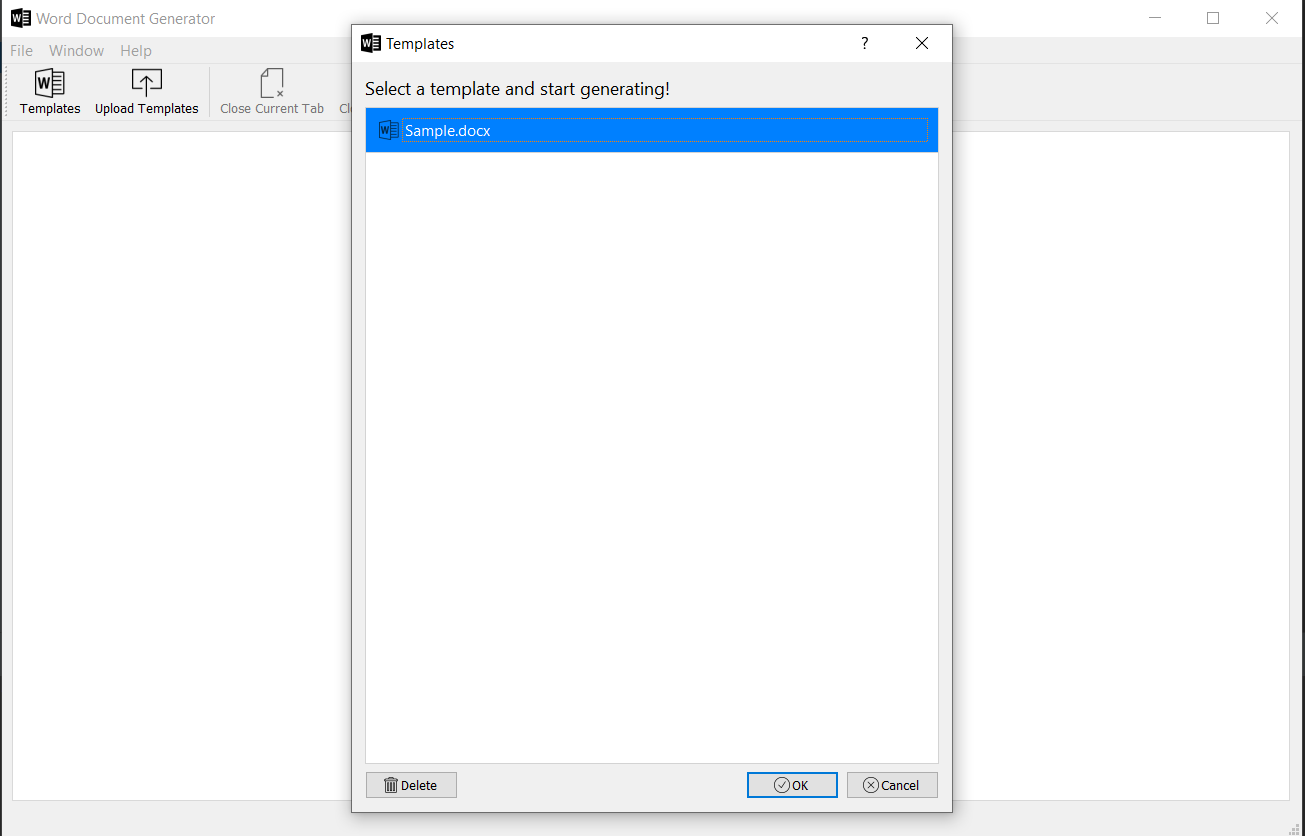
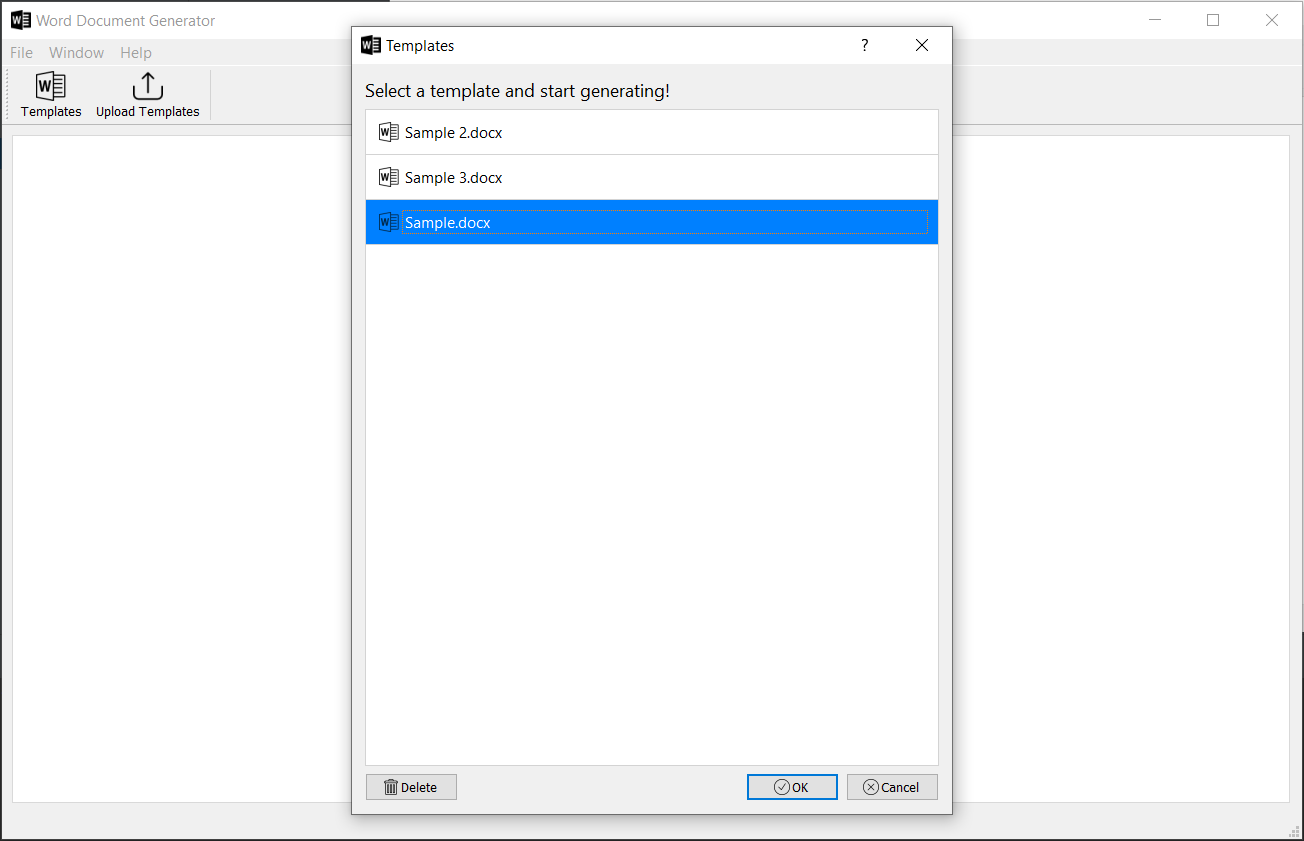
Release v1.0.1

diff --git a/dg/home.py b/dg/home.py
@@ -38,7 +38,8 @@ class HomeWindow(QMainWindow):
     action_templates: QAction
     action_upload: QAction
     action_quit: QAction
-    action_close_tab: QAction
+    action_generate: QAction
+    action_discard: QAction
     action_close_all: QAction
     action_about: QAction
 
@@ -70,7 +71,8 @@ class HomeWindow(QMainWindow):
         self.action_quit.triggered.connect(lambda: self.on_quit_triggered())
         self.action_templates.triggered.connect(lambda: self.on_templates_triggered())
         self.action_upload.triggered.connect(lambda: self.on_upload_triggered())
-        self.action_close_tab.triggered.connect(lambda: self.on_close_tab_triggered())
+        self.action_generate.triggered.connect(lambda: self.on_generate_triggered())
+        self.action_discard.triggered.connect(lambda: self.on_discard_triggered())
         self.action_close_all.triggered.connect(lambda: self.on_close_all_triggered())
         self.closeEvent = lambda event: self.on_quit_triggered()  # noqa
 
@@ -80,9 +82,6 @@ class HomeWindow(QMainWindow):
         self.tab_widget.currentChanged.connect(lambda index: self.on_tab_changed(index))
         self.toolbar.addActions([self.action_templates, self.action_upload])
         self.toolbar.addSeparator()
-        self.toolbar.addActions([self.action_close_tab, self.action_close_all])
-        self.toolbar.addSeparator()
-        self.toolbar.addAction(self.action_about)
 
     def show_initial_message(self):
         """Show statusbar message"""
@@ -91,8 +90,16 @@ class HomeWindow(QMainWindow):
     def on_tab_changed(self, index):
         """On tab changed"""
         has_tab = index >= 0
-        self.action_close_tab.setEnabled(has_tab)
         self.action_close_all.setEnabled(has_tab)
+        self.action_generate.setEnabled(has_tab)
+        self.action_discard.setEnabled(has_tab)
+
+        if has_tab:
+            self.toolbar.addAction(self.action_generate)
+            self.toolbar.addAction(self.action_discard)
+        else:
+            self.toolbar.removeAction(self.action_generate)
+            self.toolbar.removeAction(self.action_discard)
 
     def on_tab_closed(self, index):
         """On tab closed"""
@@ -167,15 +174,17 @@ class HomeWindow(QMainWindow):
         self.tab_widget.addTab(window, name)
         self.tab_widget.setCurrentWidget(window)
 
-        index = self.tab_widget.indexOf(window)
-        window.on_cancel.connect(lambda: self.on_tab_closed(index))
-
     def on_extract_variables_fail(self, error):
         """On extract variables task fail"""""
         QMessageBox.warning(self, 'Error', f'An error occurred when parsing template. <br/>Error: {error}')
 
-    def on_close_tab_triggered(self):
-        """On close current tab triggered"""
+    def on_generate_triggered(self):
+        """On generate action triggered"""
+        window: GeneratorWindow = self.tab_widget.currentWidget()
+        window.generate()
+
+    def on_discard_triggered(self):
+        """On discard action triggered"""
         self.tab_widget.removeTab(self.tab_widget.currentIndex())
 
     def on_close_all_triggered(self):

diff --git a/dg/generator.py b/dg/generator.py
@@ -2,15 +2,9 @@ import re
 from pathlib import Path
 
 from PyQt5 import uic  # noqa
-from PyQt5.QtCore import (
-    pyqtSignal,
-    QSize
-)
-from PyQt5.QtGui import QIcon
 from PyQt5.QtWidgets import (
     QWidget,
     QFormLayout,
-    QDialogButtonBox,
     QLabel,
     QLineEdit,
     QMessageBox,
@@ -19,7 +13,6 @@ from PyQt5.QtWidgets import (
 
 from dg import (
     UI_DIR,
-    ICONS_DIR,
     TEMPLATES_DIR
 )
 from dg.task import TaskGenerateDocument
@@ -29,10 +22,8 @@ class GeneratorWindow(QWidget):
     """
     Dynamic Generated Window
     """
-    on_cancel = pyqtSignal()
     values = {}
     layout: QFormLayout
-    button_box: QDialogButtonBox
 
     def __init__(self, variables, name):
         """Initialise"""
@@ -40,24 +31,12 @@ class GeneratorWindow(QWidget):
         self.variables = variables
         self.name = name
         self.setup_ui()
-        self.setup_buttonbox()
         self.create_form_box()
 
     def setup_ui(self):
         """Setup ui"""
         ui_path = UI_DIR / 'generator.ui'
         uic.loadUi(str(ui_path), self)
-
-    def setup_buttonbox(self):
-        """Setup buttonbox"""
-        btn_ok = self.button_box.button(QDialogButtonBox.Ok)
-        btn_ok.setIcon(QIcon(str(ICONS_DIR.joinpath('ok.png'))))
-        btn_ok.setIconSize(QSize(16, 16))
-        btn_ok.clicked.connect(lambda: self.on_accepted())
-        btn_cancel = self.button_box.button(QDialogButtonBox.Cancel)
-        btn_cancel.setIcon(QIcon(str(ICONS_DIR.joinpath('cancel.png'))))
-        btn_cancel.setIconSize(QSize(16, 16))
-        btn_cancel.clicked.connect(lambda: self.on_rejected())
 
     @staticmethod
     def normalize(string):
@@ -128,14 +107,10 @@ class GeneratorWindow(QWidget):
         """On generate document task fail"""
         QMessageBox.warning(self, 'Error', f'An error occurred when generating document. <br/>Error: {error}')
 
-    def on_accepted(self):
-        """Accepted signal"""
+    def generate(self):
+        """Generate document"""
         try:
             self.set_values()
             self.render_template()
         except Exception as ex:
             QMessageBox.warning(self, 'Error', f'An error occurred: {str(ex)}')
-
-    def on_rejected(self):
-        """Rejected signal"""
-        self.on_cancel.emit()

diff --git a/dg/__init__.py b/dg/__init__.py
@@ -1,6 +1,6 @@
 import pathlib
 
-__version__ = '1.0.0'
+__version__ = '1.0.1'
 __author__ = 'Özcan YARIMDÜNYA'
 __website__ = 'http://semiworld.org'
 __app__ = 'Word Document Generator'

diff --git a/README.md b/README.md
@@ -9,7 +9,7 @@ Things to do respectively;
 
 ## Download
 
-Download application from this [LINK.](https://github.com/ozcanyarimdunya/dg/releases/download/1.0.0/Word.Document.Generator.exe)
+Download application from this [LINK.](https://github.com/ozcanyarimdunya/dg/releases/download/1.0.1/Word.Document.Generator.exe)
 
 ## Screenshots
 
